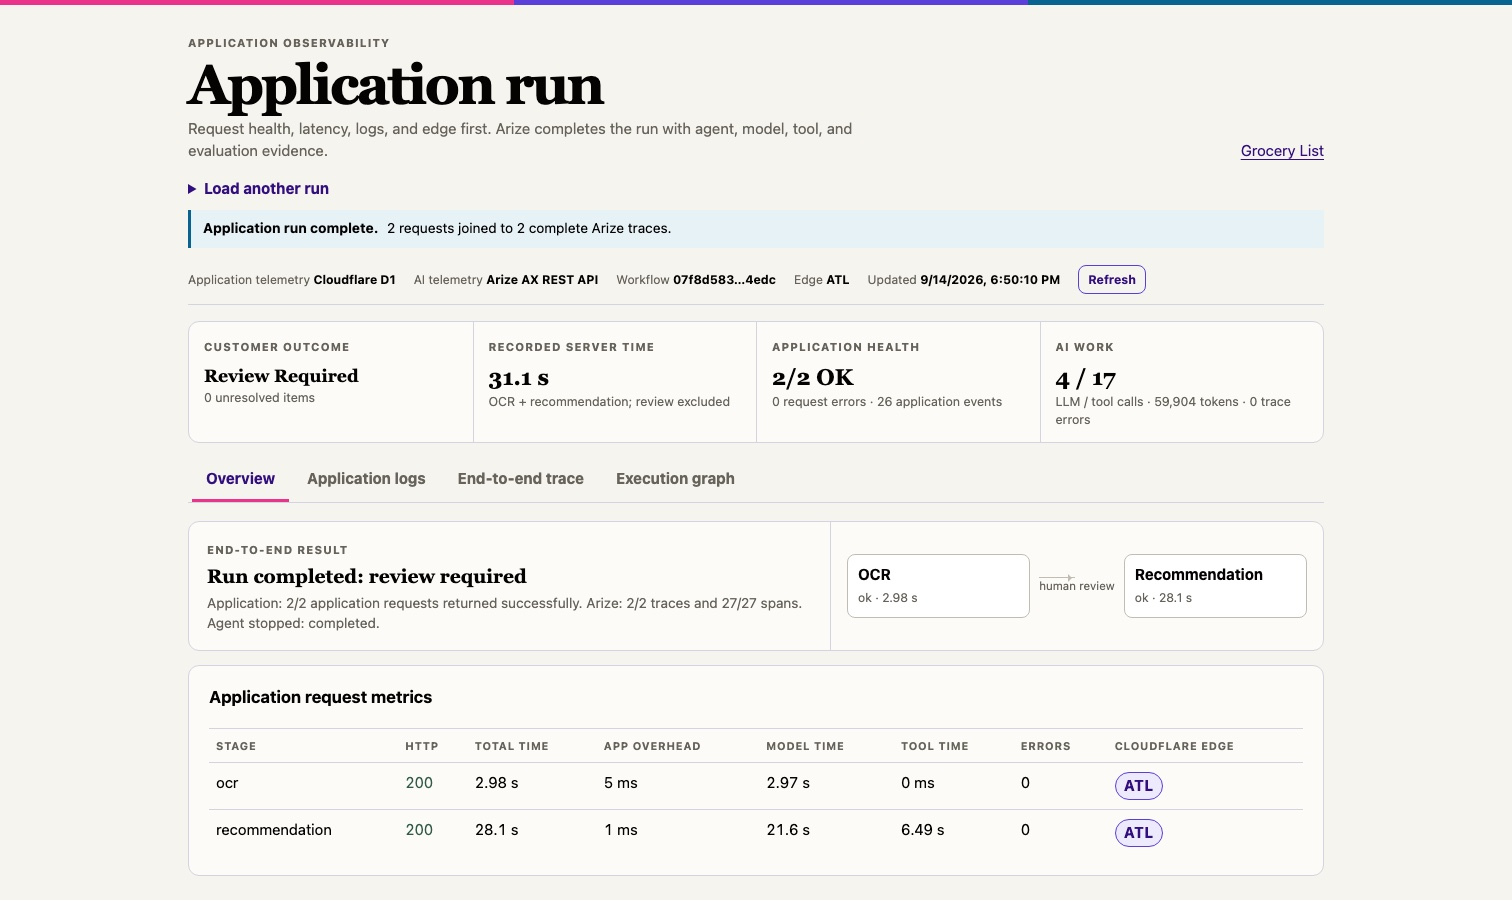
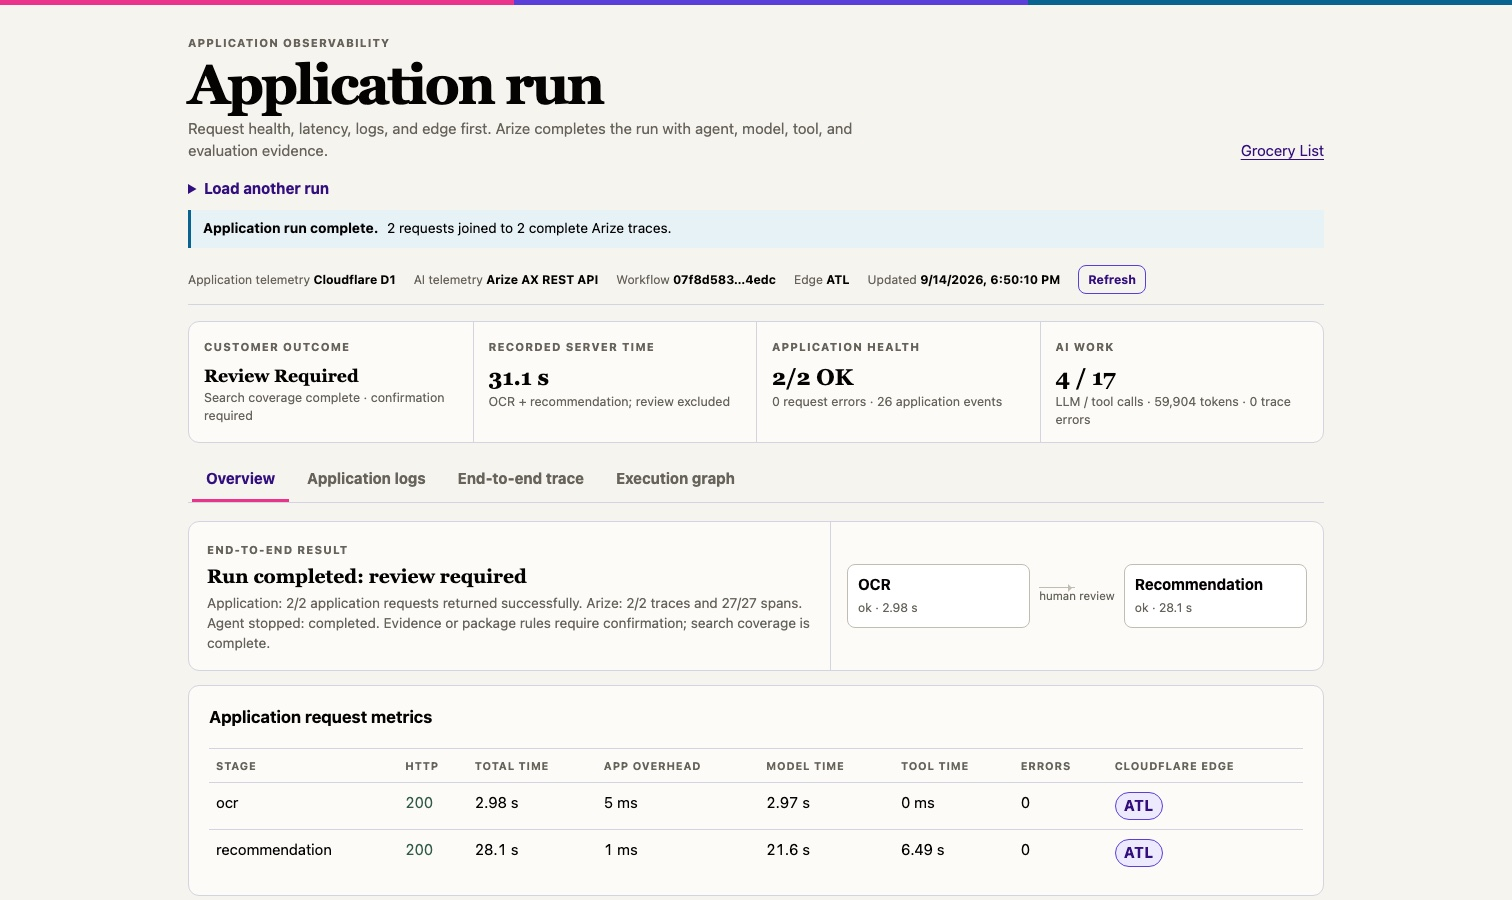
Tighten reviewer narrative and product use case

diff --git a/README.md b/README.md
@@ -1,33 +1,38 @@
 # Arize AI Project
 
-## Grocery agent observability case study
+## 60-second brief
 
-I built a grocery comparison agent, traced its decisions in Arize AX, converted observed outcome gaps into a regression dataset, and tested a coverage-first prompt against the deployed demo baseline.
-
-The candidate completed more searches and produced worse customer evidence at a higher operating cost. I rejected it.
+| Question | Answer |
+| --- | --- |
+| What did I build? | A grocery comparison agent that writes bounded, read-only SQL against frozen Costco and Walmart catalogs. |
+| Why this agent? | Model-authored queries expose search choice, retries, evidence selection, stopping behavior, latency, and token cost. |
+| What did Arize reveal? | A run can complete without runtime errors and still return incomplete or irrelevant customer evidence. |
+| What did I test? | Prompt B against a coverage-first Prompt C on four trace-derived cases under the same model, catalogs, runtime, contract, and evaluators. |
+| What did I decide? | Retain Prompt B. Prompt C searched more items and reduced relevance while increasing time, tool calls, and completion tokens. |
+| What should Arize build? | Evaluation Readiness Preflight: validate dataset fields, evaluator scope, context size, lineage, operational measures, and expected score coverage before the first scored experiment. |
 
 This repository is private and provided only for Arize's take-home review. No license is granted for reuse or redistribution.
 
-## Five product decisions
+## Decision record
 
-| Decision | Why it mattered |
-| --- | --- |
-| Use a familiar shopping decision with imperfect evidence. | Grocery comparison made relevance, package compatibility, incomplete coverage, and unsupported certainty visible without requiring a complex agent. |
-| Let the agent write SQL, but keep authority in the application. | Model-authored queries exposed search strategy, retries, and ineffective behavior in traces. The application still enforced read-only access, budgets, evidence validation, and final-response rules. |
-| Measure customer success separately from execution health. | A run with `OK` spans could still return incomplete or irrelevant recommendations. Customer outcome, agent behavior, application health, and platform health therefore remained separate evidence layers. |
-| Correct the evidence contract before comparing prompts. | The baseline showed that unsearched items could be called unavailable. Contract `0.2.0` fixed that state invariant for both variants, preventing the correction from being misattributed to Prompt C. |
-| Reject the candidate and invest in evaluation readiness. | Prompt C completed more searches but reduced critical relevance and increased time, tool calls, and completion tokens. I retained Prompt B and proposed an Evaluation Readiness Preflight to make future comparisons trustworthy before judge spend begins. |
-
-## Five-minute reviewer path
-
-| Time | Open | What it shows |
+| Evidence | Interpretation | Decision |
 | --- | --- | --- |
-| 0:00–0:40 | [Project brief](docs/PROJECT_BRIEF.md) | The customer decision, the controlled data boundary, and why the agent writes SQL. |
-| 0:40–1:25 | [Application observability dashboard](docs/OBSERVABILITY_DASHBOARD.md) | Request health, latency, logs, serving edge, and the Arize evidence that completes the run. |
-| 1:25–2:25 | [Part 1 — Build, observe, and diagnose](docs/PART_1_BUILD_OBSERVE_DIAGNOSE.md) | The baseline trace evidence and the customer-outcome gap that started the experiment. |
-| 2:25–3:40 | [Part 2 — Evaluate, improve, and decide](docs/PART_2_EVALUATE_IMPROVE_DECIDE.md) | The fixed test set, B/C result, evaluator coverage, and release decision. |
-| 3:40–4:30 | [Product point of view](docs/PRODUCT_POINT_OF_VIEW.md) | The proposed Evaluation Readiness Preflight and the adoption gap it addresses. |
-| 4:30–5:00 | [Agent definition](docs/AGENT_DEFINITION.md) and [evidence index](docs/EVIDENCE_INDEX.md) | The agent contract, its controls, and the source for each screenshot or Arize record. |
+| Completed searches increased from 10/17 to 17/17. | Prompt C achieved its coverage target. | Count as an improvement. |
+| Critical product relevance fell from 3/4 to 0/4. | Additional searches did not produce usable customer evidence. | Fail the quality gate. |
+| Total elapsed time increased 93.9%. | The candidate increased customer wait. | Fail the operating-envelope gate. |
+| Tool calls increased 45.8%; completion tokens increased 132.5%. | The candidate consumed more work per test set. | Fail the efficiency gate. |
+| Native and deterministic evaluators disagreed; B produced 37/44 labels and C produced 36/44. | One aggregate could support the wrong release decision, and evaluator coverage was incomplete. | Inspect run evidence and retain missing labels. |
+| Prompt C failed the quality and operating gates. | Coverage alone did not improve the customer result. | Keep Prompt B deployed. |
+
+## Reviewer path: the assignment in three parts
+
+| Part | Reviewer question | Primary artifact |
+| --- | --- | --- |
+| 1. Build and observe | What did I build, why is it an agent, and what did the trace reveal? | [Part 1 — Build, observe, and diagnose](docs/PART_1_BUILD_OBSERVE_DIAGNOSE.md) |
+| 2. Evaluate and decide | What changed, how did I measure it, and should it ship? | [Part 2 — Evaluate, improve, and decide](docs/PART_2_EVALUATE_IMPROVE_DECIDE.md) |
+| 3. Propose an investment | Which observed adoption gap should Arize address, why first, and what is the MVP? | [Product point of view](docs/PRODUCT_POINT_OF_VIEW.md) |
+
+Supporting evidence: [project brief](docs/PROJECT_BRIEF.md), [application observability dashboard](docs/OBSERVABILITY_DASHBOARD.md), [agent definition](docs/AGENT_DEFINITION.md), [evidence index](docs/EVIDENCE_INDEX.md), [AI tool-use disclosure](docs/AI_TOOL_USE.md), and [assignment mapping](docs/ASSIGNMENT_MAPPING.md).
 
 [Open the hosted demo](https://grocery.parkerwall-dev.workers.dev/). The app is access-controlled; temporary reviewer credentials are supplied separately in the submission email. See [reviewer access](docs/REVIEWER_ACCESS.md).
 
@@ -88,7 +93,7 @@ The trace showed the difference between execution success and customer success. 
 
 ## Experiment result
 
-I added four observed runs to the `grocery-agent-regression-cases` dataset and compared Prompt B with Prompt C under the same model, catalogs, runtime, evaluator versions, and contract `0.2.0`. That shared contract required completed searches of both retailers before an item could be called unavailable. The correction from `0.1.0` was applied before both variants and is not counted as a Prompt C improvement.
+I added four observed runs to the `grocery-agent-regression-cases` dataset and compared Prompt B with Prompt C under the same OpenAI `gpt-4o-mini` agent configuration, catalogs, runtime, evaluator versions, and contract `0.2.0`. That shared contract required completed searches of both retailers before an item could be called unavailable. The correction from `0.1.0` was applied before both variants and is not counted as a Prompt C improvement.
 
 | Outcome | Prompt B | Prompt C |
 | --- | ---: | ---: |
@@ -121,29 +126,15 @@ Arize already supports trace inspection, trace-to-dataset conversion, evaluators
 | Horizon | Product decision |
 | --- | --- |
 | Build first | Evaluation Readiness Preflight, because the completed dogfooding workflow directly exposed the setup and evidence gap. |
-| Validate next | Agent service indicators, objectives, and escalation for teams operating shared production agents. The contract would connect customer outcome, reliability, efficiency, and governance thresholds across experiments and live monitoring. |
+| Validate next | The SRE governance use case for teams operating shared production agents. A versioned service contract would connect customer outcome, reliability, efficiency, and governance thresholds across experiments and live monitoring. |
 | Preserve the boundary | Arize should define, measure, explain, and communicate an objective breach. The customer application should retain authority to stop, reroute, degrade, or require human review. |
 
-[Read the prioritization and agent-service-objective hypothesis](docs/PRODUCT_POINT_OF_VIEW.md#prioritization-across-the-observed-opportunities).
+[Read the prioritization and SRE governance use case](docs/PRODUCT_POINT_OF_VIEW.md#product-use-case-govern-a-shared-production-agent).
 
 ## Why the agent writes SQL
 
 I intentionally kept query formation inside the agent boundary. Model-authored SQL made schema interpretation, query choice, retries, candidate selection, and stopping behavior visible in Arize. The application limited the consequences through read-only execution, work budgets, evidence validation, and a server-built response.
 
 This design exposed the search and decision behavior the assignment asked me to investigate. A fixed search function would have moved most of that behavior into application code.
-
-## Supporting material
-
-- [Assignment mapping](docs/ASSIGNMENT_MAPPING.md)
-- [Application observability dashboard](docs/OBSERVABILITY_DASHBOARD.md)
-- [Screenshot evidence index](docs/EVIDENCE_INDEX.md)
-- [Experiment design](docs/EXPERIMENT_DESIGN.md)
-- [Opportunities to improve](docs/FRICTION_LOG.md)
-- [Product point of view](docs/PRODUCT_POINT_OF_VIEW.md)
-- [Data and evidence boundaries](docs/DATA_AND_EVIDENCE.md)
-- [Part 2 execution record](docs/PART_2_PLAN.md)
-- [AI coding-tool use and verification](docs/AI_TOOL_USE.md)
-- [Agent definition](docs/AGENT_DEFINITION.md)
-- [Future hypotheses](docs/FUTURE_HYPOTHESES.md)
 
 Arize links require access to the originating workspace. Screenshots are included so the argument does not depend on that access.

diff --git a/docs/PRODUCT_POINT_OF_VIEW.md b/docs/PRODUCT_POINT_OF_VIEW.md
@@ -90,7 +90,7 @@ For the pilot, a trusted score means that the developer confirmed the mappings, 
 - percentage of invalid evaluator mappings caught before judge calls begin;
 - developer confirmation that the comparison answers the intended product question.
 
-## Next hypothesis: agent service objectives
+## Future discovery: agent service objectives
 
 Arize already provides [custom metrics](https://arize.com/docs/ax/observe/projects/custom-metrics-api), [dashboards](https://arize.com/docs/ax/observe/dashboards), [continuous evaluations](https://arize.com/docs/ax/evaluate/online-evals/setting-up-online-evals), monitors, and [alert integrations](https://arize.com/docs/ax/machine-learning/machine-learning/how-to-ml/monitors/configure-monitors/notifications-and-integrations). The next opportunity is not another threshold screen. It is a versioned operating contract that lets a team define what acceptable agent service means and apply the same definition during experiments and in production.
 
@@ -115,6 +115,29 @@ The escalation policy should distinguish a warning from an incident. A warning c
 
 This is a discovery item after the Preflight MVP. Before committing to it, I would validate indicator definitions, ownership, measurement windows, error-budget expectations, and escalation integrations with AI engineers, SREs, and product owners operating shared production agents.
 
+### Product use case: govern a shared production agent
+
+**Target user:** An SRE responsible for an agent platform shared by several product teams.
+
+**Situation:** A team promotes a new prompt, model, or tool-policy version. HTTP success remains healthy, but supported task completion falls, no-progress loops rise, or tool-authorization failures increase. The SRE can see that the service is running but cannot tell whether the agent is still meeting its customer and governance commitments.
+
+**Job:** Determine whether the agent is meeting its approved service contract, identify the affected release and trace cohort, notify the owner, and choose a permitted response.
+
+The product workflow would be:
+
+1. An AI engineer and product manager define a versioned objective set covering customer outcome, reliability, efficiency, and governance.
+2. The SRE attaches that objective set to an agent, environment, owner, and release cohort.
+3. Arize evaluates production runs and correlates a breach with prompt, model, policy, contract, dataset, application, and infrastructure versions.
+4. The breach opens the affected trace cohort, identifies the indicator that crossed its team-defined threshold, and routes the alert to the named owner.
+5. The SRE chooses an approved action: continue observing, require human review, degrade to a bounded path, or request a rollback.
+6. The customer runtime executes the control and reports the action and subsequent outcome as audit evidence.
+
+The user outcome is one evidence contract that connects customer quality to latency, cost, tool behavior, and policy state. The SRE can investigate a breach without manually joining an application dashboard, agent traces, evaluation results, and release metadata. Product and engineering teams use the same measures to decide whether a candidate may ship and whether the production agent remains healthy.
+
+Arize would define, measure, explain, and route the evidence. The application would retain enforcement authority. That boundary gives the SRE operational control without requiring Arize to become the execution runtime.
+
+I would validate this use case by measuring time from breach to affected cohort, the percentage of breaches with an owner, release version, and selected action, false-escalation rate, and the percentage of release decisions that use the same indicators later monitored in production. These are validation measures, not product claims from this four-case experiment.
+
 ## Evidence from Part 2
 
 Prompt B and Prompt C ran against the same four cases, catalog versions, runtime, contract, model configuration, and evaluator versions. Prompt C improved native task completion from 75% to 100%, but critical product relevance fell from three of four cases to zero, total elapsed time increased 93.9%, tool calls increased 45.8%, and completion tokens increased 132.5%.
@@ -125,7 +148,7 @@ These observations make the preflight the recommended adoption investment. It ac
 
 [Read the full comparison and evaluator denominator](PART_2_EVALUATE_IMPROVE_DECIDE.md) or [inspect the scrubbed eight-run evidence](../evidence/experiment-runs.json).
 
-## Later observability hypotheses
+## Other future discovery
 
 These are follow-on questions, not additions to the MVP:
 

diff --git a/docs/EVIDENCE_INDEX.md b/docs/EVIDENCE_INDEX.md
@@ -23,7 +23,7 @@ The screenshots follow the customer flow and product reasoning across [Part 1](P
 | 17 | [Native evaluator tasks](../assets/screenshots/17-native-evaluator-tasks.jpg) | Span- and trace-level evaluator tasks ran separately and show mixed completion histories. | It documents real execution, partial coverage, provider throttling, and the retry opportunity. |
 | 18 | [Task-completion comparison](../assets/screenshots/18-task-completion-improvement.jpg) | Prompt C improved native Grocery Task Completion from 75% to 100%. | It is the candidate's real gain, which must be weighed against relevance and operational regressions. |
 | 19 | [Current deployed demo result](../assets/screenshots/19-current-deployed-demo-result.jpg) | The deployed 0.2.1 demo returns retailer evidence and package-comparison state for the built-in three-item demo list. | It is the current hosted-demo customer-result reference; it demonstrates the post-experiment package-equivalence boundary without implying that the demo list is OCR evidence. |
-| 20 | [Run evidence overview](../assets/screenshots/20-dashboard-run-overview.jpg) | One workflow joins two complete Arize traces with Cloudflare request evidence and identifies the `ATL` serving edge. | It answers the operating question first: the application and traces completed, yet the customer outcome still required review. |
+| 20 | [Run evidence overview](../assets/screenshots/20-dashboard-run-overview.jpg) | One workflow joins two complete Arize traces with Cloudflare request evidence and identifies the `ATL` serving edge. | It separates complete search coverage from the customer decision: evidence or package rules still required confirmation. |
 | 21 | [End-to-end trace waterfall](../assets/screenshots/21-dashboard-end-to-end-traces.jpg) | The OCR request and recommendation request remain separate traces linked by one workflow, with all 27 expected spans present. | It preserves the human-review boundary while making agent, model, SQL-tool, validation, and response work inspectable together. |
 | 22 | [Trace-generated execution graph](../assets/screenshots/22-dashboard-execution-graph.jpg) | Arize parent-span relationships generate separate OCR and recommendation graphs, joined by an explicit workflow handoff. | It makes causal structure and cross-request correlation visible without inventing one continuous server trace. |
 | 23 | [Run-scoped application logs](../assets/screenshots/23-dashboard-application-logs.jpg) | Structured D1 events show request receipt, model and tool completion, and HTTP response boundaries for the same workflow and trace IDs. | It connects application symptoms to agent activity while preserving the privacy boundary around images, prompts, SQL, and model outputs. |

diff --git a/docs/PART_2_EVALUATE_IMPROVE_DECIDE.md b/docs/PART_2_EVALUATE_IMPROVE_DECIDE.md
@@ -17,7 +17,7 @@ Part 1 produced four regression cases from observed traces:
 
 I wrote the reference behavior before running either variant. The reference required complete Costco and Walmart search, category-compatible evidence, shopper-aware reasoning, truthful uncertainty, and no live-data claim. It did not prescribe a retailer winner.
 
-I held the model, catalog versions, Worker path, database, SQL gateway, response contract, cases, and evaluator versions constant. The exact settings, including the agent model and the separately provider-managed evaluator model group, are in the [controlled configuration record](EXPERIMENT_DESIGN.md#controlled-configuration-record). Both variants used contract `0.2.0`: `unavailable` required completed Costco and Walmart searches, while incomplete or failed searches returned `review`. The prompt and search policy were the independent variable.
+I held the OpenAI `gpt-4o-mini` agent configuration, catalog versions, Worker path, database, SQL gateway, response contract, cases, and evaluator versions constant. The exact settings, including the separately provider-managed evaluator model group, are in the [controlled configuration record](EXPERIMENT_DESIGN.md#controlled-configuration-record). Both variants used contract `0.2.0`: `unavailable` required completed Costco and Walmart searches, while incomplete or failed searches returned `review`. The prompt and search policy were the independent variable.
 
 The Part 1 diagnostic trace used contract `0.1.0` and exposed the false unavailable state. I introduced `0.2.0` before running either B or C. The experiment does not count that shared correction as a Prompt C improvement.
 

diff --git a/docs/EXPERIMENT_DESIGN.md b/docs/EXPERIMENT_DESIGN.md
@@ -19,7 +19,7 @@ This post-run record names the configuration used for both variants. It separate
 
 | Component | Controlled setting | Evidence boundary |
 | --- | --- | --- |
-| Agent model | `gpt-4o-mini` is the Worker’s configured fallback through an OpenAI-compatible interface; the controlled-run `MODEL_NAME` override is not independently captured in the reviewer evidence | A sampled Prompt B trace export returned one root `CHAIN` span with the run input, output, tool-call summary, and usage totals, but no child LLM span or model-name attribute. The exact deployed override remains unknown in this evidence. |
+| Agent model | OpenAI `gpt-4o-mini` through an OpenAI-compatible interface | The 25-span Prompt B diagnostic trace `8dda9755f410fbdb64660809779cd9fe` contains eight LLM spans; every `llm.model_name` value is `gpt-4o-mini`. Prompt B and Prompt C then used the same Worker model configuration. The scrubbed experiment export does not repeat the model field, so the trace is the retained model-lineage record. |
 | Agent generation | Temperature `0`; `max_completion_tokens` `4,000`; tool choice `auto` | `top_p`, seed, and other provider defaults were not set or captured. |
 | Agent contract and lifecycle | Contract `0.2.0`; lifecycle `limited`; environment `demo` | Both variants used the same state invariant: incomplete or failed searches return `review`. |
 | Prompt and policy | B / `search-policy-v1`; C / `search-policy-v2.2` | The prompt/policy pair was the intended independent variable. |

diff --git a/docs/OBSERVABILITY_DASHBOARD.md b/docs/OBSERVABILITY_DASHBOARD.md
@@ -38,7 +38,7 @@ It keeps four states separate:
 | Agent result | `review_required` |
 | Agent stop reason | `completed` |
 
-The final two rows matter. The agent completed its permitted loop, and the application returned successfully, but the result still required review. The dashboard does not translate a green HTTP status or an `OK` span into a claim of customer success.
+The final two rows matter. The agent completed its permitted loop, and the application returned successfully, but the result still required review. Zero unresolved items means search coverage was complete. Evidence or package rules can still require customer confirmation. The dashboard does not translate a green HTTP status or an `OK` span into a claim of customer success.
 
 ## Trace-readiness finding
 
